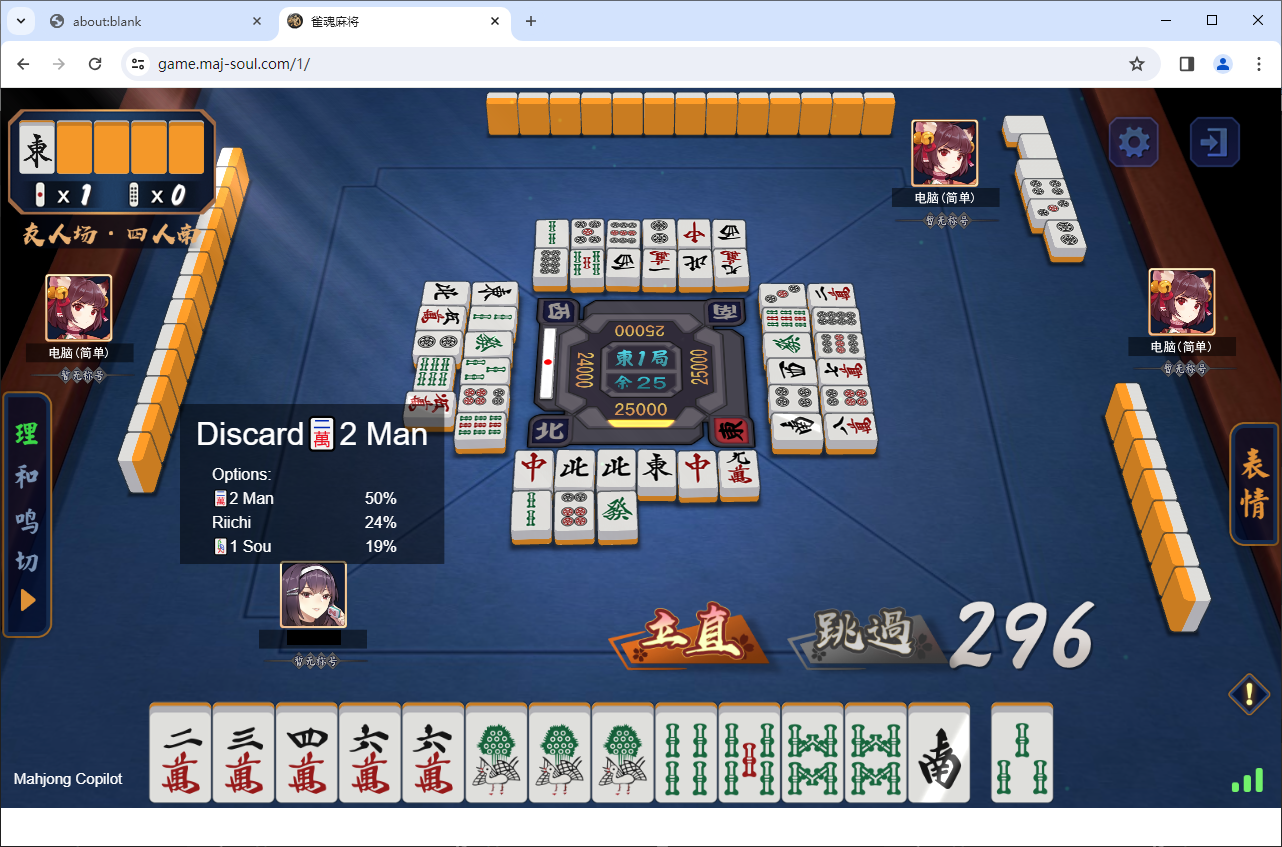
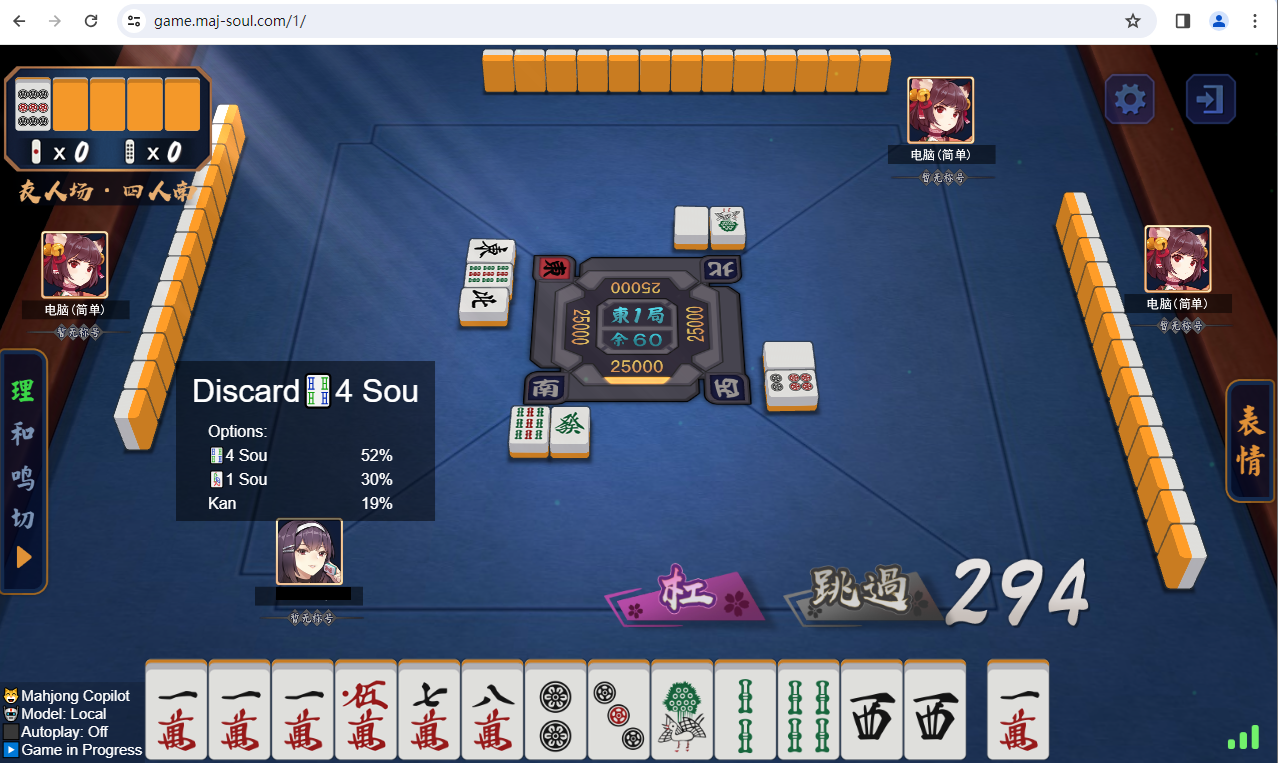
docs

diff --git a/readme.md b/readme.md
@@ -4,33 +4,61 @@ Mahjong AI Assistant for Maj-soul. When you are in a game in Majsoul, AI will gi
 
 Features:
 
-- Step-by-step AI guidance for the entire game.
+- Step-by-step AI guidance with in-game overlay.
 - Auto play
 - Multi-language support
+- Supports Mortal local model and online model
 
 雀魂麻将的 AI 助手，基于 Mortal 麻将 AI. 会对你游戏的每一步进行指导。
 
 特性：
 
-- 游戏每一步 AI 指导
+- 对局每一步 AI 指导，在游戏中覆盖显示
 - 自动打牌
 - 多语言支持
+- 支持本地 Mortal 模型和在线模型
 
 ## Instructions 使用方法
 
+### To Run
+
 1. Download the archive from [Release](https://github.com/latorc/MahjongCopilot/releases) and unzip.
-2. Get Mortal model file (pth file), and put it into 'models' folder. For model file please refer to [Akagi](https://github.com/shinkuan/Akagi?tab=readme-ov-file#installation).
-3. Launch.
+2. Aquire Mortal model file (pth file), and put it into 'models' folder. For model file please refer to [Akagi](https://github.com/shinkuan/Akagi?tab=readme-ov-file#installation).
+3. Launch exe file.
 
 Note: Enable autoplay feature at your own risk because it may lead to account suspension. Do not use autoplay for like 24 hours a day.
 
-使用方法：
+### 运行方法
 
 1. 从 [Release](https://github.com/latorc/MahjongCopilot/releases) 中下载压缩包并解压。
 2. 获取 Mortal 模型文件 （pth 文件），放到 'models' 目录中。模型文件请参见 [Akagi](https://github.com/shinkuan/Akagi?tab=readme-ov-file#installation).
-3. 运行程序。
+3. 运行 exe 文件。
 
 注意：使用自动打牌有风险，可能导致账户被封。请勿一天 24 小时使用自动打牌。
+
+### To Develope
+
+1. Clone the repo
+
+```
+git clone https://github.com/latorc/MahjongCopilot.git
+```
+
+2. (optional, recommended) Install Python virtual environment. Python version 3.11 recommended.
+3. Install dependencies in requirements.txt
+4. Main entrance is: gui.py
+
+### 开发
+
+1. 克隆 repo
+
+```
+git clone https://github.com/latorc/MahjongCopilot.git
+```
+
+2. (可选，推荐）安装 Python 虚拟环境。Python 版本推荐 3.11.
+3. 安装 requirements.txt 中的依赖。
+4. 主程序入口: gui.py
 
 ## Screenshots 截图
 
@@ -41,6 +69,8 @@ GUI 界面
 In-game HUD (Overlay) 游戏中 HUD (覆盖显示）
 
 ![](assets/shot2.png)
+
+![](assets/shot3.png)
 
 ## Design 设计
 
@@ -58,8 +88,10 @@ In-game HUD (Overlay) 游戏中 HUD (覆盖显示）
   设计和功能实现基于 Akagi
   
   Akagi: https://github.com/shinkuan/Akagi
-  
-  
+- 参考 Reference
+  Mahjong Soul API: https://github.com/MahjongRepository/mahjong_soul_api
+
+
 - MJAI Protocol Reference
   
   MJAI协议参考
